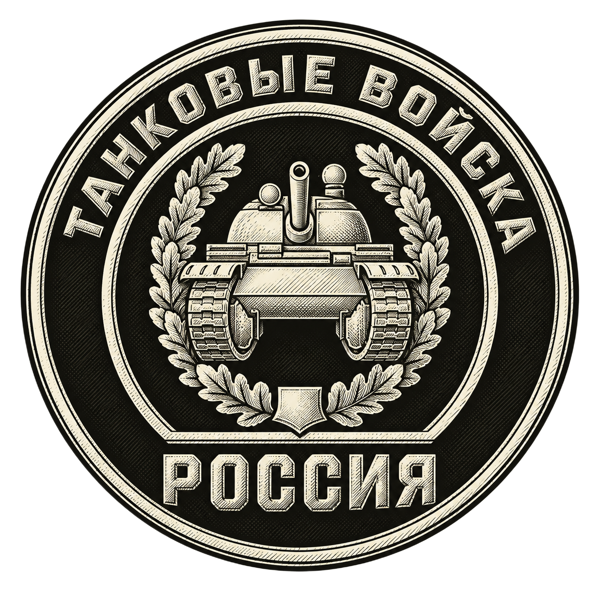
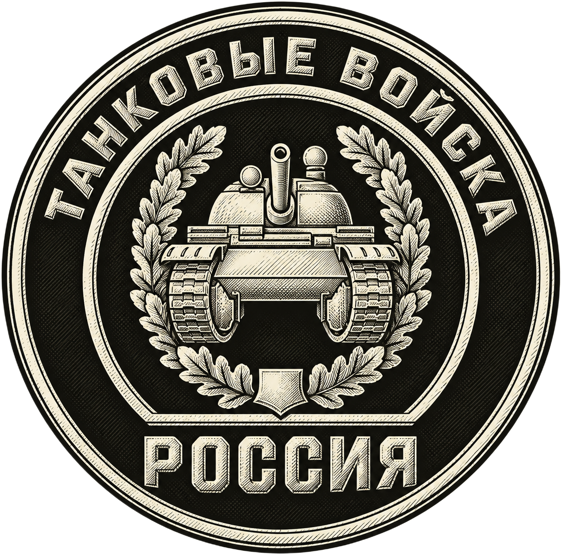
Выровнять гербы по верху и размеру, поправить "Батальон" и позицию №/даты
Оба PNG-герба обрезаны по фактической непрозрачной области (у
"Шавлинского" было ~13% прозрачного поля сверху внутри канвы — из-за
него object-contain визуально "проседал" вниз внутри одинаковых по
высоте рамок, хотя контейнеры и были выровнены по items-start). После
обрезки оба герба на cover-v2 одного размера (33мм) и стоят вровень по
верхней границе.

"Батальон": кегль 90px -> 76px (чуть меньше первой строки) и увеличен
внутренний паддинг оливковой плашки (px-4mm/py-1mm -> px-6mm/py-2mm) —
буквы больше не упираются в край подложки.

№/дата выпуска вынесены из центральной колонки шапки в отдельную
строку, прижатую к правому краю ВСЕЙ страницы (было — только к правому
краю центральной колонки между гербами).

Masthead.tsx (cover-v1) обновлён на новые пути .png (старые .jpg
удалены).

Claude-Session: https://claude.ai/code/session_01NkYitVMZN9HzBjeBLc5pzR

diff --git a/components/templates/cover/CoverV2.tsx b/components/templates/cover/CoverV2.tsx
@@ -67,11 +67,14 @@ export function CoverV2({ issue }: { issue: Issue }) {
         {/* Шапка — крупнее, чем у cover-v1: заголовок издания несёт
             основной визуальный вес страницы (по макету). Заголовок
             почти во всю ширину центральной колонки (QA: "таких же
-            размеров хотелось бы добиться"), №/дата — на одной строке
-            с подзаголовком, справа (QA: "нравится расположение и
-            размер номер и дата выпуска" в референсе). Отступы вокруг
-            гербов увеличены (QA: "отступ увеличить"). */}
-        <div className="mt-[7mm] grid grid-cols-[32mm_1fr_32mm] items-start gap-[7mm]">
+            размеров хотелось бы добиться"). Отступы вокруг гербов
+            увеличены (QA: "отступ увеличить"); оба герба одного
+            размера (QA: "приведи этот герб по размеру с предыдущим")
+            и выровнены строго по верхней границе — items-start плюс
+            сами PNG обрезаны по непрозрачной области (без внутренних
+            прозрачных полей вокруг рисунка), поэтому object-contain
+            больше не "проседает" вниз с воздухом сверху. */}
+        <div className="mt-[7mm] grid grid-cols-[33mm_1fr_33mm] items-start gap-[7mm]">
           <Emblem
             imageSrc="/emblems/emblem-tank-corps.png"
             label="Танковые войска"
@@ -81,13 +84,16 @@ export function CoverV2({ issue }: { issue: Issue }) {
           />
 
           <div className="text-center">
-            <h1 className="font-display text-[90px] font-bold uppercase leading-[0.8] tracking-tight">
-              <span className="block text-ink">Танковый</span>
-              {/* Белый текст на тёмной подложке — как в референсе
-                  (QA: "цвет текста белый, подложка и цвет её как в
-                  образце"); inline-block, а не block на всю ширину,
-                  чтобы подложка облегала именно текст, а не колонку. */}
-              <span className="mt-[1.5mm] inline-block bg-olive px-[4mm] py-[1mm] text-paper">
+            <h1 className="font-display uppercase tracking-tight">
+              <span className="block text-[90px] font-bold leading-[0.8] text-ink">Танковый</span>
+              {/* Белый текст на тёмной подложке — как в референсе (QA:
+                  "цвет текста белый, подложка и цвет её как в образце").
+                  Кегль чуть меньше первой строки и запас паддинга внутри
+                  плашки (QA: "чуть меньше размер и чтобы не сливался с
+                  границей подложки") — иначе буквы упирались в край
+                  оливкового фона. inline-block, а не block на всю
+                  ширину, чтобы подложка облегала именно текст. */}
+              <span className="mt-[2mm] inline-block bg-olive px-[6mm] py-[2mm] text-[76px] font-bold leading-[0.85] text-paper">
                 Батальон
               </span>
             </h1>
@@ -98,20 +104,25 @@ export function CoverV2({ issue }: { issue: Issue }) {
               </span>
             </div>
 
-            <div className="mt-[2.5mm] flex items-baseline justify-between gap-[4mm]">
-              <p className="font-body text-[7.5px] uppercase tracking-wide text-olive-dim">
-                Внутреннее издание танкового батальона
-              </p>
-              <IssueMeta number={issue.number} date={issue.date} />
-            </div>
+            <p className="mt-[2.5mm] font-body text-[7.5px] uppercase tracking-wide text-olive-dim">
+              Внутреннее издание танкового батальона
+            </p>
           </div>
 
           <Emblem
-            imageSrc="/emblems/emblem-shavlinsky.jpg"
+            imageSrc="/emblems/emblem-shavlinsky.png"
             label="Шавлинский полк"
             sublabel="Вместе к новым победам"
             shape="shield"
+            sizeMm={33}
           />
+        </div>
+
+        {/* №/дата выпуска — по правому краю ВСЕЙ страницы (QA:
+            "сориентироваться по правому краю макета"), а не только
+            правого края центральной колонки шапки, как было раньше. */}
+        <div className="mt-[3mm] flex justify-end">
+          <IssueMeta number={issue.number} date={issue.date} />
         </div>
 
         <EditorialRule variant="double" className="mt-[4mm]" />

diff --git a/components/templates/cover/Masthead.tsx b/components/templates/cover/Masthead.tsx
@@ -59,7 +59,7 @@ export function Masthead({
         </div>
 
         <Emblem
-          imageSrc="/emblems/emblem-shavlinsky.jpg"
+          imageSrc="/emblems/emblem-shavlinsky.png"
           label="Шавлинский полк"
           sublabel="Вместе к новым победам"
           shape="shield"
